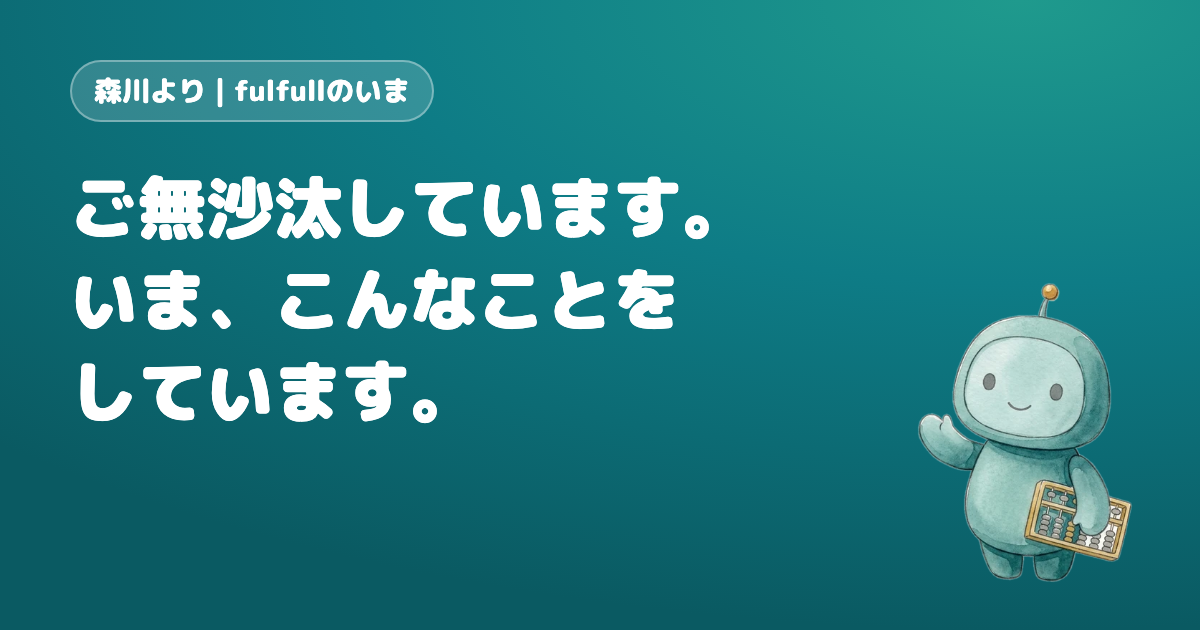
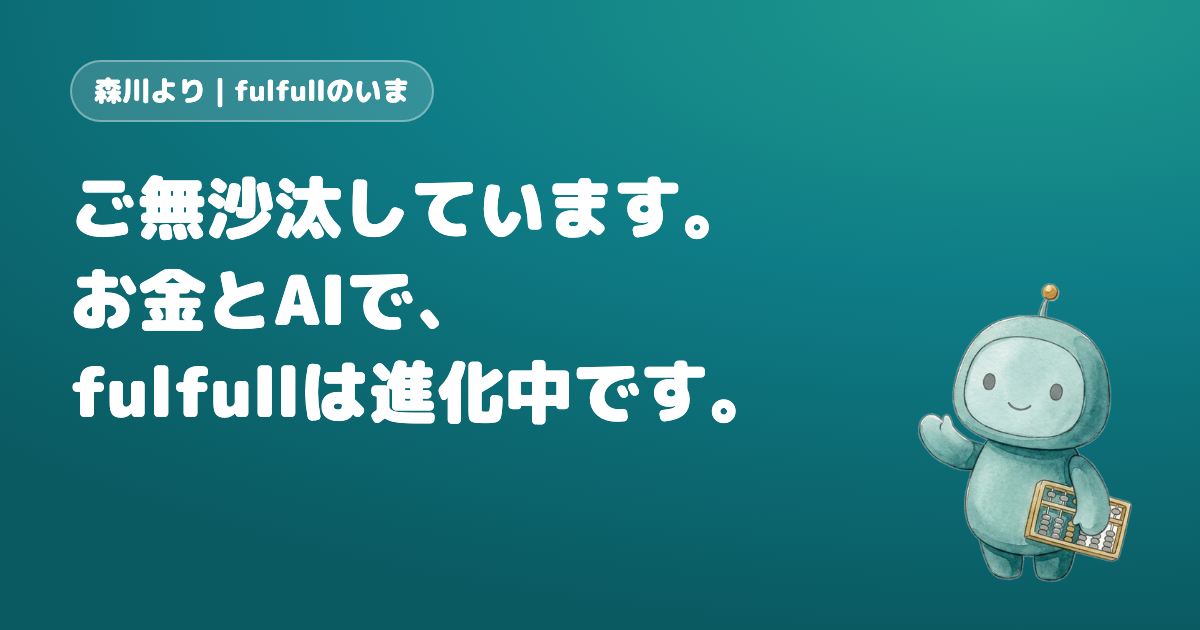
m1: 見出しを進化中に

Changed region(s): [[0.0617, 0.4222, 0.5858, 0.5429], [0.0617, 0.573, 0.6167, 0.6937]]

diff --git a/w/m1/index.html b/w/m1/index.html
@@ -1,7 +1,7 @@
 <!doctype html>
 <html lang="ja"><head><meta charset="utf-8"><meta name="viewport" content="width=device-width,initial-scale=1">
 <meta name="robots" content="noindex,nofollow,noarchive"><meta name="color-scheme" content="light">
-<meta name="description" content="fulfullのいま｜小学校の租税教室、定年の日の通帳の話（動画）、スレッズで124.5万人が読んだ話"><meta property="og:title" content="ご無沙汰しています。いま、こんなことをしています。"><meta property="og:description" content="fulfullのいま｜小学校の租税教室、定年の日の通帳の話（動画）、スレッズで124.5万人が読んだ話">
+<meta name="description" content="fulfullのいま｜小学校の租税教室、定年の日の通帳の話（動画）、スレッズで124.5万人が読んだ話"><meta property="og:title" content="ご無沙汰しています。お金とAIで、fulfullは進化中です。"><meta property="og:description" content="fulfullのいま｜小学校の租税教室、定年の日の通帳の話（動画）、スレッズで124.5万人が読んだ話">
 <meta property="og:url" content="https://mm738966m-boop.github.io/asa/w/m1/"><meta property="og:image" content="https://mm738966m-boop.github.io/asa/w/m1/og.png"><meta property="og:image:width" content="1200"><meta property="og:image:height" content="630">
 <meta name="twitter:card" content="summary_large_image"><meta property="og:type" content="website">
 <link href="https://fonts.googleapis.com/css2?family=M+PLUS+Rounded+1c:wght@500;700;800;900&display=swap" rel="stylesheet">
@@ -66,14 +66,14 @@ p{font-size:17px;line-height:1.9;margin:0 0 12px}
 <header class="hero">
 <span class="brand">森川より｜fulfullのいま</span>
 <div class="date">11月28日（土）</div>
-<h1>ご無沙汰しています。<br>いま、こんなことを<br>しています。</h1>
+<h1>ご無沙汰しています。<br>お金とAIで、<br>fulfullは進化中です。</h1>
 <p class="lead">fulfullのいまを、3つのお話でお届けします。<br>気になるところだけ、読んでみてください。</p>
 <img class="robo" src="../../img/mascot_base.webp" alt="">
 </header>
 
 <section class="msg"><h3>fulfullは、この2つで進化を続けています。</h3>
-<p style="font-size:16px;margin:0">ご無沙汰しています。fulfullは、相談のお仕事を続けながら、新しいことにも取り組んでいます。</p>
-<div class="two2"><div class="m"><b>お金のこと</b>相談・勉強会・学校での授業・動画やスレッドでの発信</div><div class="a"><b>AIのこと</b>仕事の多くをAIと一緒に回す取り組み（次回くわしく）</div></div>
+<p style="font-size:16px;margin:0">相談のお仕事を続けながら、新しいことにも取り組んでいます。</p>
+<div class="two2"><div class="m"><b>お金のこと</b>相談・勉強会・学校での授業・動画やスレッズでの発信</div><div class="a"><b>AIのこと</b>仕事の多くをAIと一緒に回す取り組み（次回くわしく）</div></div>
 </section>
 <nav class="toc">
 <a href="#c"><b>1</b>小学校の「租税教室」</a>
